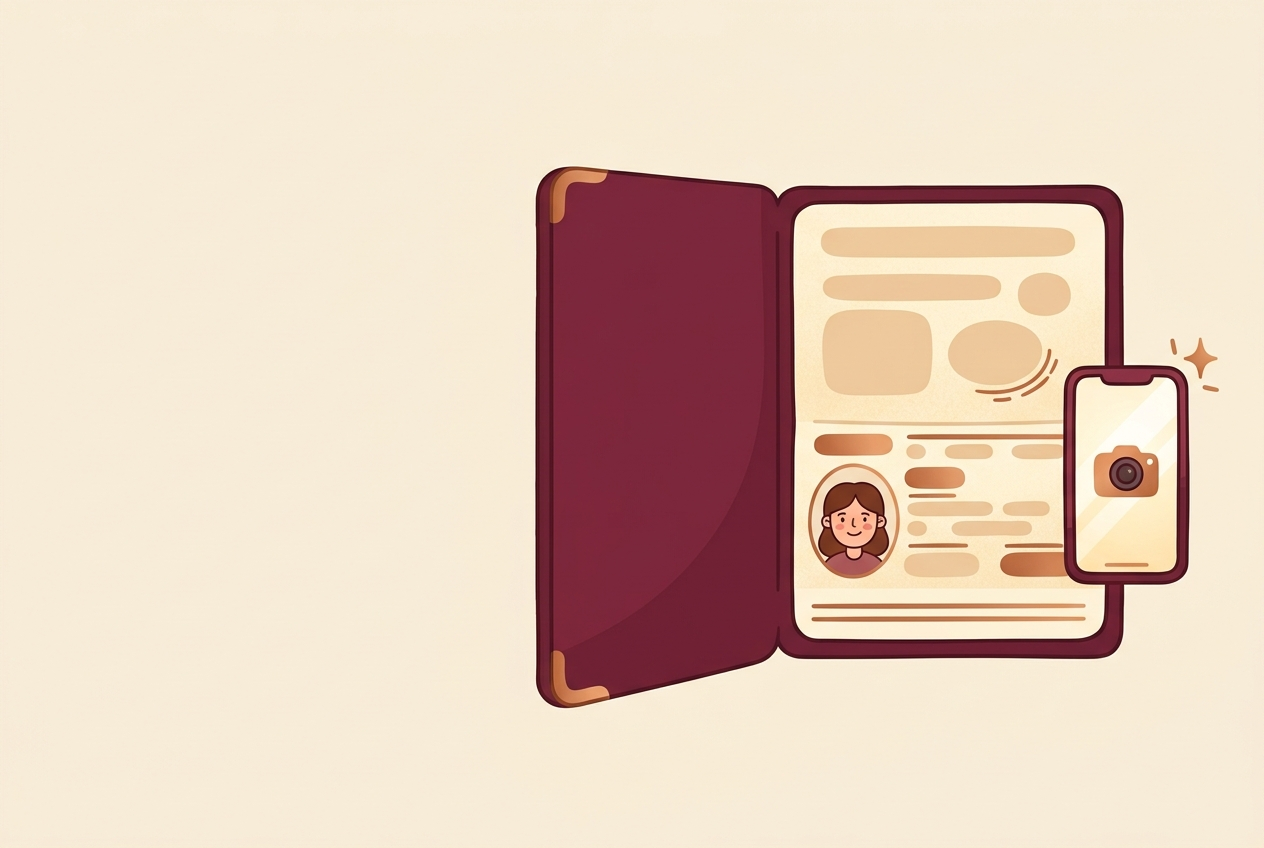
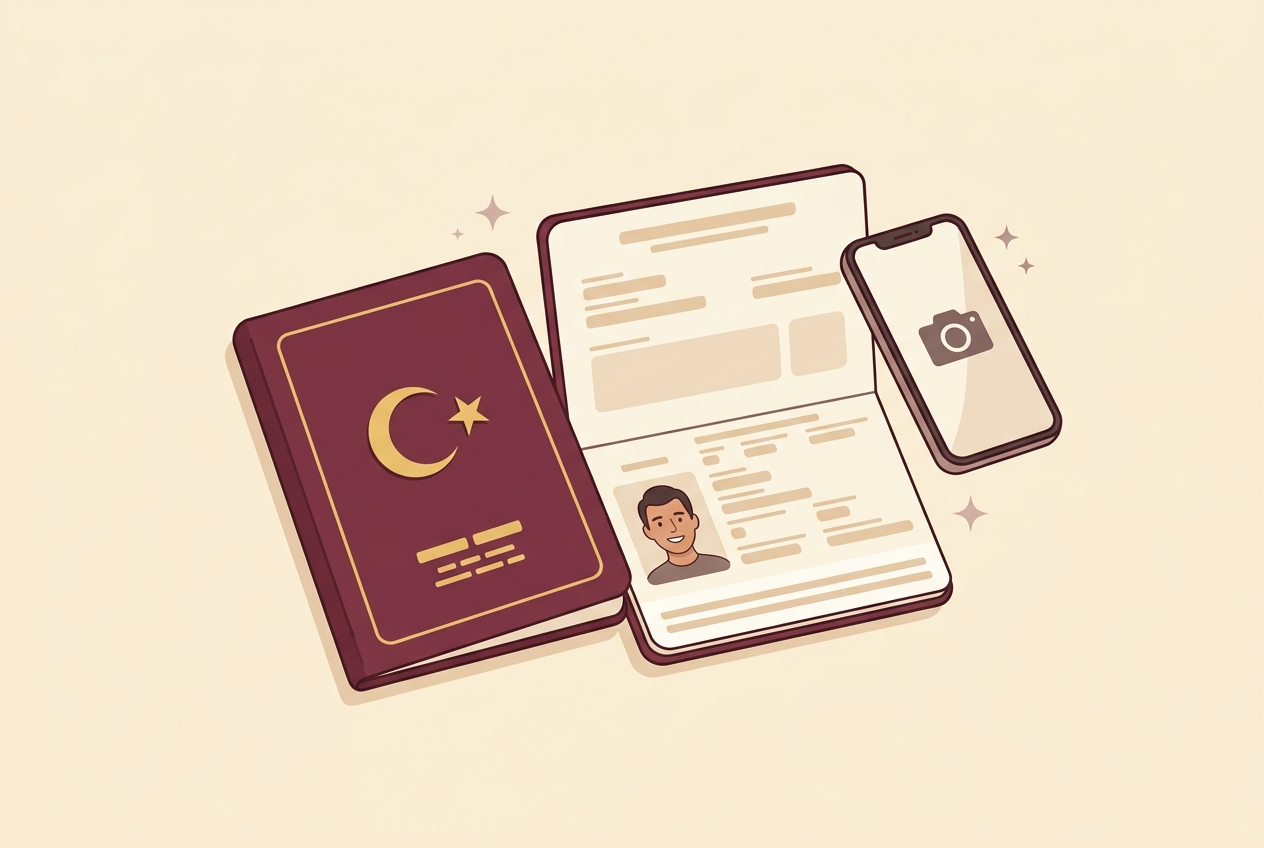
## Görseller güncellendi
- **Pasaport sahnesi**: artık bordo **Türk pasaportu** — altın hilal-yıldız amblemli kapak, kimlik bilgileri sayfası ve telefonla fotoğraflama; erkek portresi kullanıldı.
- **Vesikalık sahnesi**: iki fotoğraf **yan yana, aynı hizada** (çapraz/eğik değil), altlarında onay tikleri, yanda üstü çizili gözlük ve şapka ikonları.
- Aynı yumuşak-kurumsal illüstrasyon dilinde; iki sahne de tarayıcıda kontrol edildi. Eski dosyalar `*.prev.jpg` olarak yedekte, istemezseniz tek komutla geri alırım.

- Next Action Items:
  - **Güvenlik Düzeltmeleri**: Hesap girişini e-posta koduna çevir, belge indirmeyi girişe bağla, XSS'i kapat
  - **WhatsApp Otomatik**: Meta anahtarlarını ver, "vizeniz hazır" mesajları kendiliğinden gitsin
  - **Kapanış Sahnesi Yenileme**: Son sahneye Dubai silüetiyle TÜRSAB güven mührünü ekle, kapanış daha kurumsal görünsün
  - **Vize Tarih Hesaplayıcı**: Anlatım sonunda "vizem ne zaman hazır olur" hesaplayıcısı göster

Potansiyel iyileştirme: Bu 7 sahneyi sesle birlikte tek bir mp4'e dönüştürüp reklamlarda ve WhatsApp durumunda kullanabilirsiniz — aynı görseller, aynı ses, sıfır ek maliyet.

diff --git a/frontend/src/components/VisaExplainer.jsx b/frontend/src/components/VisaExplainer.jsx
@@ -37,7 +37,7 @@ const SCENES = [
         title: "Pasaportunuzun kimlik sayfası",
         note: "Kimlik bilgilerinizin bulunduğu sayfanın fotoğrafı",
         subtitle: "İlk olarak, pasaportunuzun kimlik bilgilerinin yer aldığı sayfanın fotoğrafını yükleyin.",
-        alt: "Açık pasaport ve telefonla fotoğraflama çizimi",
+        alt: "Türk pasaportu, kimlik sayfası ve telefonla fotoğraflama çizimi",
         silentMs: 5000,
         voiceMs: 5230,
     },
@@ -49,7 +49,7 @@ const SCENES = [
         note: "Beyaz fon, gözlüksüz ve şapkasız",
         subtitle:
             "Ardından beyaz fonda çekilmiş güncel bir vesikalık fotoğraf ekleyin. Fotoğrafınızın gözlüksüz ve şapkasız olması gerektiğini lütfen unutmayın.",
-        alt: "Vesikalık fotoğraf ve üstü çizili gözlük şapka çizimi",
+        alt: "Yan yana iki vesikalık fotoğraf ve üstü çizili gözlük şapka çizimi",
         silentMs: 8500,
         voiceMs: 9300,
     },

diff --git a/memory/PRD.md b/memory/PRD.md
@@ -769,3 +769,9 @@ gerekmedi**; testing_agent ile regresyon doğrulaması yapıldı (backend %100, 
   `/account/request-code` (e-posta bombardımanı) rate limit yok; OTP düz metin saklanıyor.
 - P3: CORS her origin'i yansıtıyor (`server.py:304-310`), e-postalarda kaçışsız kullanıcı
   girdisi, `JWT_SECRET` fallback `dv-dev-secret`, admin login sabit-zaman karşılaştırma yok.
+
+## 2026-06-06 · Anlatım görselleri: Türk pasaportu + yan yana vesikalıklar
+- `public/explainer/passport.jpg`: bordo **Türk pasaportu** (altın hilal-yıldız amblemi),
+  kimlik sayfası ve telefonla fotoğraflama; `photo.jpg`: iki vesikalık **yan yana, aynı
+  hizada** (çapraz/eğik değil) + onay tikleri ve üstü çizili gözlük/şapka ikonları.
+  Önceki dosyalar `*.prev.jpg` olarak yedekte. Alt metinler güncellendi.
